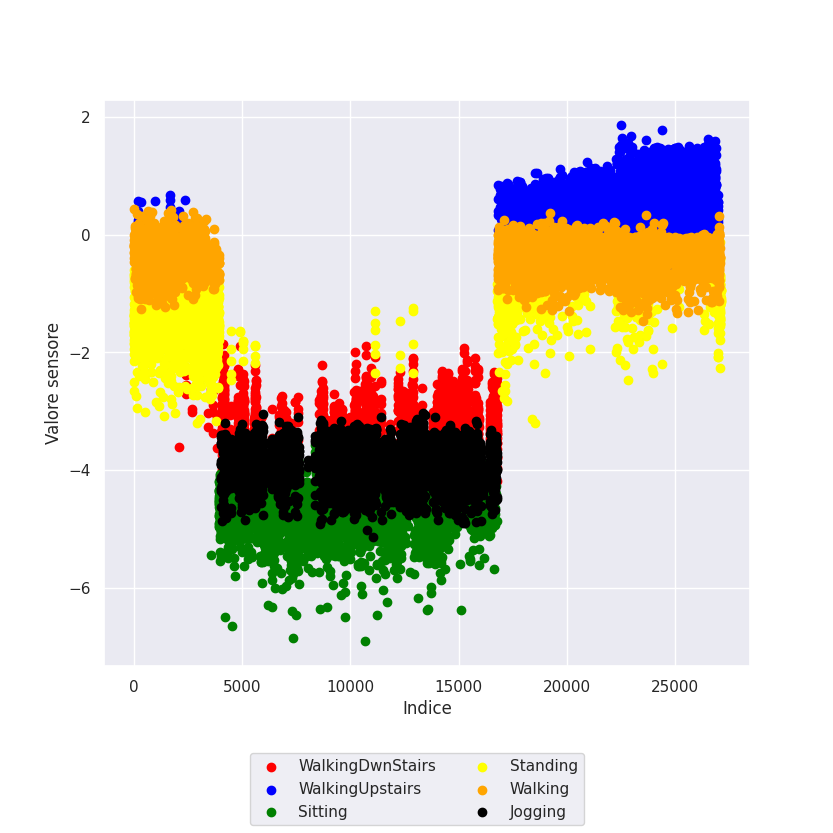
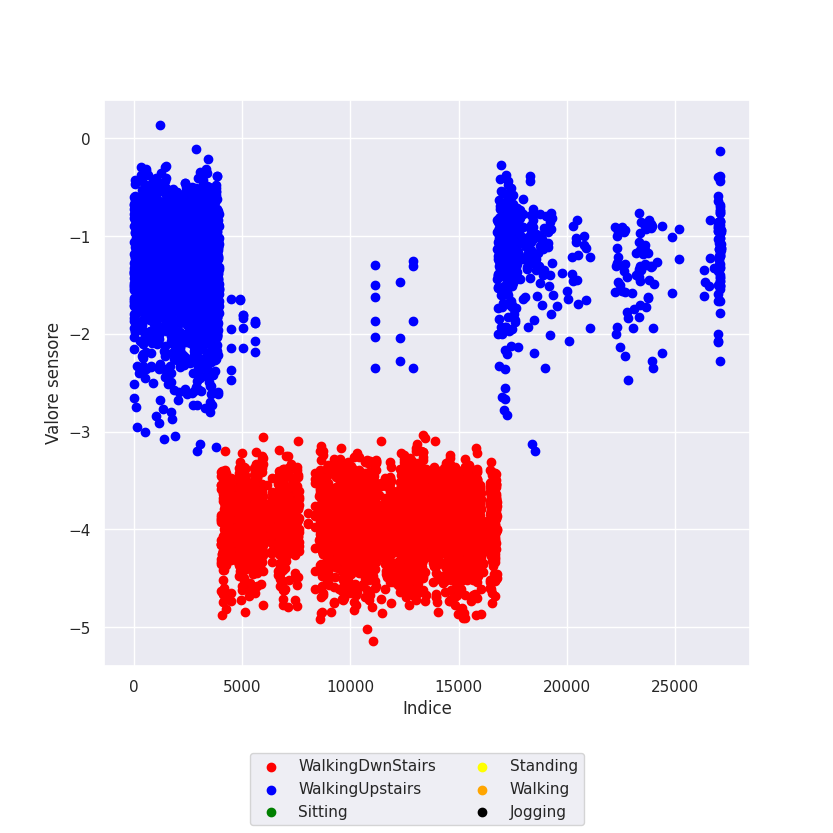
.

Changed region(s): [[0.1561, 0.1561, 0.8739, 0.7803], [0.1873, 0.1248, 0.2185, 0.1561], [0.0936, 0.4058, 0.1248, 0.437]]

diff --git a/com/utility.py b/com/utility.py
@@ -24,6 +24,8 @@ nameXtest = 'total_acc_x_test.txt'
 nameYtest = 'total_acc_y_test.txt'
 nameZtest = 'total_acc_z_test.txt'
 
+hmmGraph = absPath_ + '/immagine/Markov/grafico.png'
+
 checkPointPath = absPath_ + '/checkpoint'
 graphAccuracy = absPath_ + '/immagine/CNN/'
 
@@ -31,18 +33,22 @@ labelDict = {'WALKING': 0, 'WALKING_UPSTAIRS': 1, 'WALKING_DOWNSTAIRS': 2,
              'SITTING': 3, 'STANDING': 4, 'LAYING': 5}
 
 
+def norm(data):
+    return (data - data.mean()) / data.std() + np.finfo(np.float32).eps
+
+
 def produceMagnitude(flag):
     magnitude = []
     if flag:
 
-        x = load_X(pathToSignalTrain + nameXtrain)
-        y = load_X(pathToSignalTrain + nameYtrain)
-        z = load_X(pathToSignalTrain + nameZtrain)
+        x = norm(load_X(pathToSignalTrain + nameXtrain))
+        y = norm(load_X(pathToSignalTrain + nameYtrain))
+        z = norm(load_X(pathToSignalTrain + nameZtrain))
 
     else:
-        x = load_X(pathToSignalTest + nameXtest)
-        y = load_X(pathToSignalTest + nameYtest)
-        z = load_X(pathToSignalTest + nameZtest)
+        x = norm(load_X(pathToSignalTest + nameXtest))
+        y = norm(load_X(pathToSignalTest + nameYtest))
+        z = norm(load_X(pathToSignalTest + nameZtest))
 
     for i in range(0, len(x)):
         magnitude.append(np.sqrt(x[i] ** 2 + y[i] ** 2 + z[i] ** 2))
@@ -134,14 +140,14 @@ def dataProcessingHMM(X_train, y_train, X_test, y_test):
     X_train, X_test, y_train, y_test = train_test_split(X, y, test_size=0.3, random_state=42)
     X_train, X_val, y_train, y_val = train_test_split(X_train, y_train, test_size=0.1, random_state=42)
 
-
-    X_train= X_train.reshape((X_train.shape[0]*X_train.shape[1]), X_train.shape[2])
-    #print(X_train.shape)
+    X_train = X_train.reshape((X_train.shape[0] * X_train.shape[1]), X_train.shape[2])
+    # print(X_train.shape)
 
     X_test = X_test.reshape((X_test.shape[0] * X_test.shape[1]), X_test.shape[2])
-    #print(X_train.shape)
-
-    #X_train, y_train, X_test, y_test = np.log(X_train), np.log(y_train), np.log(X_test), np.log(y_test)
+    # print(X_train.shape)
+    X_train = X_train.tolist()
+    X_test = X_test.tolist()
+    # X_train, y_train, X_test, y_test = np.log(X_train), np.log(y_train), np.log(X_test), np.log(y_test)
     print('fine elaborazione dati')
     return X_train, y_train, X_test, y_test, X_val, y_val
 
@@ -176,17 +182,17 @@ def dataProcessingCNN(X_train, y_train, X_test, y_test):
     return X_train, y_train, X_test, y_test, X_val, y_val
 
 
-def PlotHMM():
+def PlotHMM(length_train, length_val, length_test):
+    print('Inizio plotting Hidden Markov Model')
     plt.figure(figsize=(7, 5))
     plt.scatter(np.arange(length_train), train_scores, c='b', label='trainset')
     plt.scatter(np.arange(length_train, length_val), val_scores, c='r', label='testset - imitation')
     plt.scatter(np.arange(length_val, length_test), test_scores, c='g', label='testset - original')
-    plt.title(f'User: {user} | HMM states: {n_components} | GMM components: {n_mix}')
+    plt.title('Feature')
     plt.legend(loc='lower right')
+    print('Fine plotting')
 
-    username = 'user_' + str(user)
-    figname = username + "_comp_" + str(n_components) + "_mix_" + str(n_mix) + '.png'
-    plt.savefig("./hmm_plots/" + str(username) + "/" + str(figname))
+    plt.savefig(hmmGraph)
     plt.show()
 
 

diff --git a/com/markov.py b/com/markov.py
@@ -2,10 +2,11 @@ from hmmlearn import hmm
 from utility import *
 
 
-def fit_hmm(n_mix=32):
+def fit_hmm():
     X_train, y_train, X_test, y_test = loadDataHMM()
     X_train, y_train, X_test, y_test, X_val, y_val = dataProcessingHMM(X_train, y_train, X_test, y_test)
 
+    print('Creazione del modello...')
     n_components = 6
 
     startprob = np.zeros(n_components)
@@ -20,38 +21,46 @@ def fit_hmm(n_mix=32):
             for j in range(i, i + 2):
                 transmat[i, j] = 0.5
 
-    lr = hmm.GMMHMM(n_components=n_components,
-                    n_mix=n_mix,
-                    covariance_type="diag",
-                    init_params="cm", params="cm")
+    model = hmm.GMMHMM(n_components=n_components, covariance_type="diag")
 
-    lr.startprob_ = np.array(startprob)
-    lr.transmat_ = np.array(transmat)
+    model.startprob_ = np.array(startprob)
+    model.transmat_ = np.array(transmat)
 
-    lr.fit(X_train, y_train);
+    print('Fine creazione del modello')
 
+    print('Inizio fitting del modello...')
+    # print('X_train\n', X_train)
+    model.fit(X_train);
+    print('Fine fitting del modello')
+
+    print('Inizio valutazione...')
     train_scores = []
     test_scores = []
     val_scores = []
 
+    print('prima parte')
     for i in range(len(np.array(y_train))):
-        train_score = lr.score(X_train[i])
+        train_score = model.score(X_train)
         train_scores.append(train_score)
 
+    print('seconda parte')
     for i in range(len(np.array(y_test))):
-        test_score = lr.score(X_test[i])
+        test_score = model.score(X_test)
         test_scores.append(test_score)
 
+    print('terza parte')
     for i in range(len(np.array(y_val))):
-        val_score = lr.score(X_val[i])
+        val_score = model.score(X_val)
         val_scores.append(val_score)
 
         length_train = len(train_scores)
         length_val = len(val_scores) + length_train
         length_test = len(test_scores) + length_val
+    print('Fine valutazione')
+
+    return length_train, length_val, length_test
 
 
 if __name__ == '__main__':
-   # for j in range(1, 32):
-      #  fit_hmm(n_mix=j)
-    fit_hmm()
+    length_train, length_val, length_test = fit_hmm()
+    PlotHMM(length_train, length_val, length_test)
